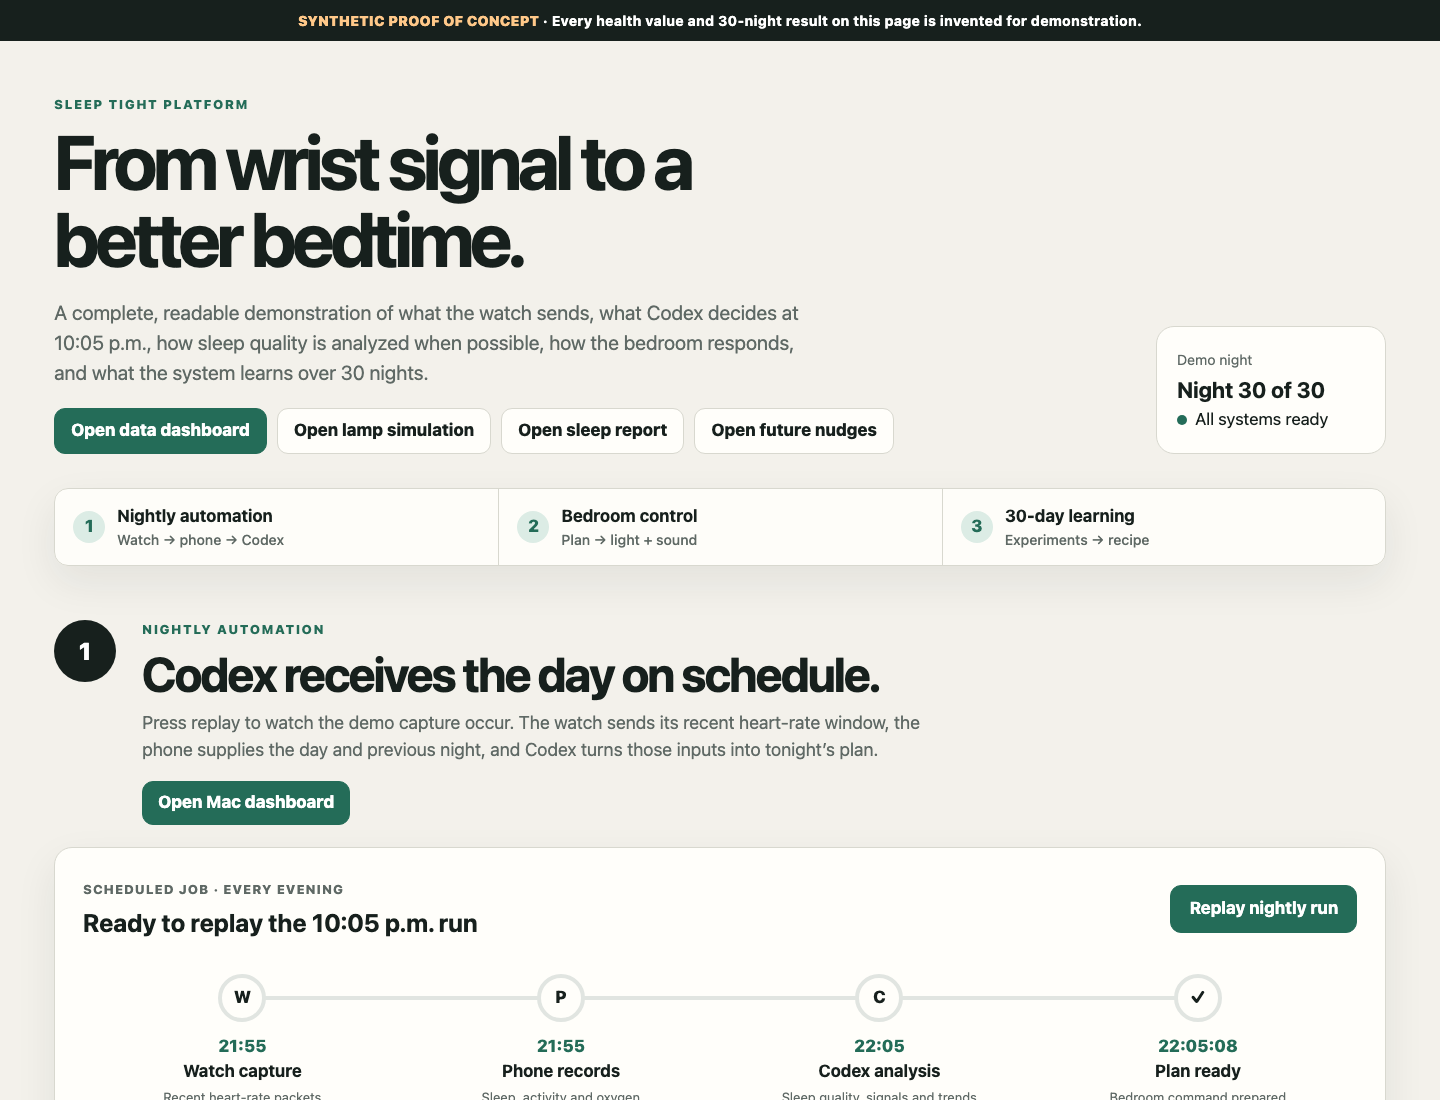
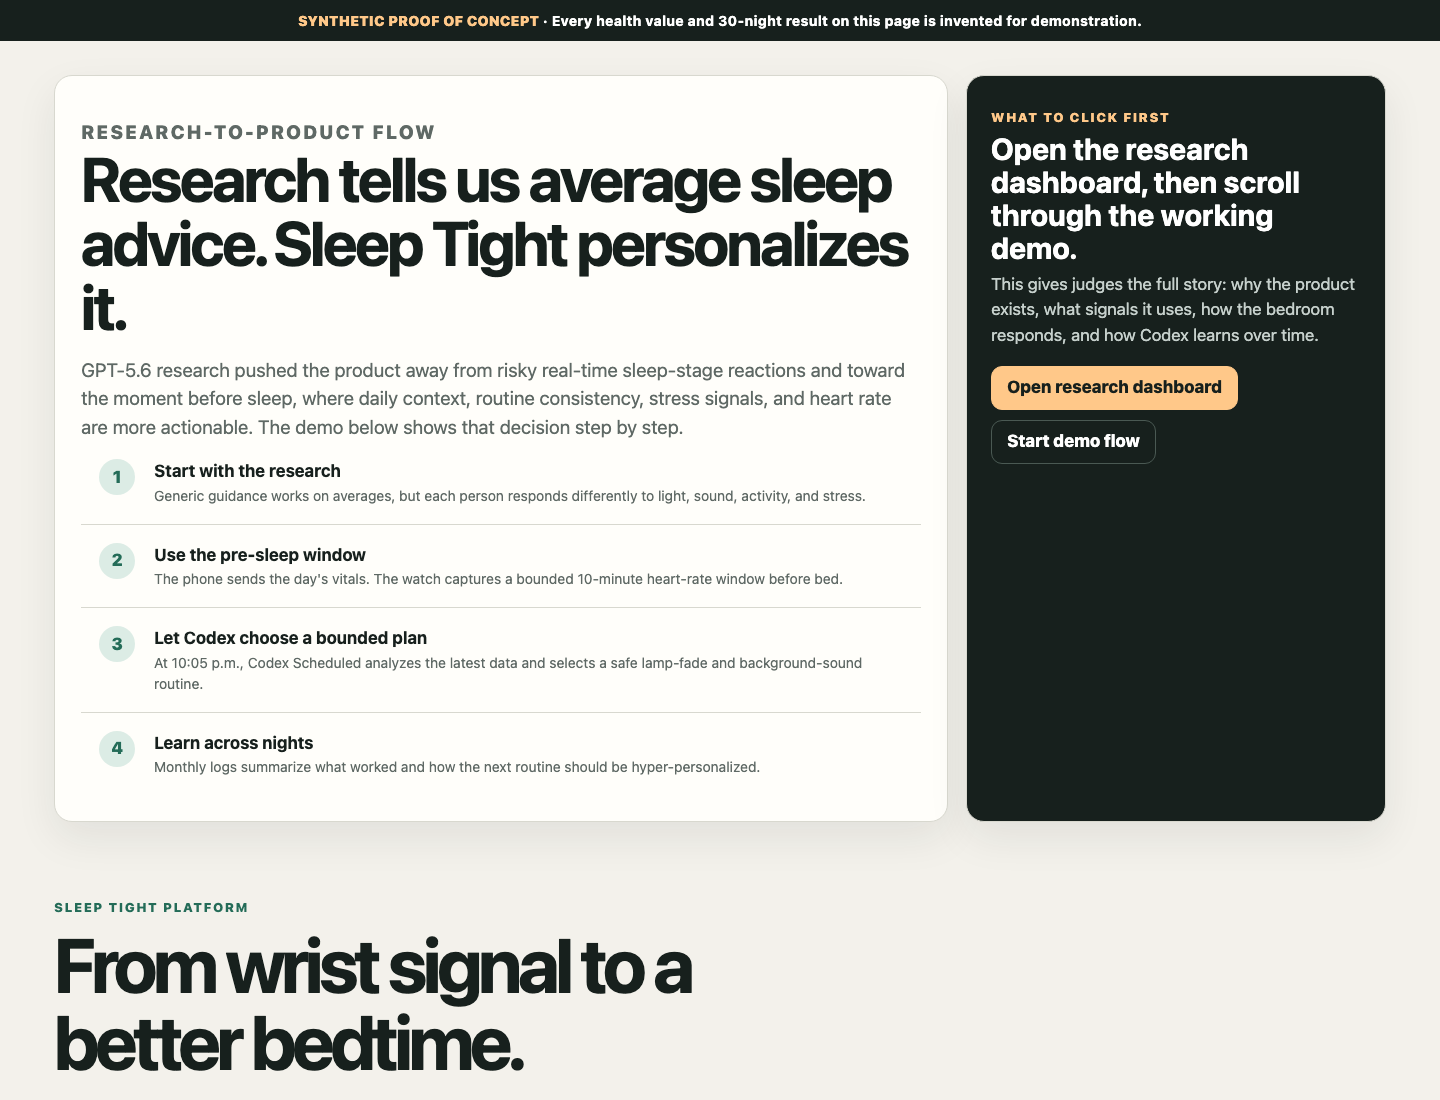
Add research-first website flow

diff --git a/index.html b/index.html
@@ -12,13 +12,38 @@
     @media(max-width:760px){body{font-size:16px}.shell{padding-inline:14px}.demo-banner{margin-inline:-14px;padding-inline:14px}.masthead{padding-top:38px}.lead{font-size:18px}.tour-nav{top:41px;grid-template-columns:repeat(3,1fr)}.tour-nav a{justify-content:center;padding:10px}.tour-nav span:last-child{display:none}.chapter-head{grid-template-columns:48px minmax(0,1fr);gap:13px}.chapter-number{width:46px;height:46px;font-size:19px}.pipeline{padding:20px}.pipeline-top{display:block}.pipeline-top button{width:100%;margin-top:16px}.pipeline-track{grid-template-columns:1fr;margin-top:24px}.pipeline-track::before,.pipeline-progress{left:23px;right:auto;top:24px;bottom:24px;width:4px!important;height:auto}.pipeline-step{display:grid;grid-template-columns:48px minmax(0,1fr);gap:14px;text-align:left;padding:10px 0}.node{margin:0}.pipeline-step time,.pipeline-step strong,.pipeline-step small{grid-column:2;margin:0}.pipeline-step time{grid-row:1}.pipeline-step strong{grid-row:2}.pipeline-step small{grid-row:3}.run-log{grid-template-columns:auto minmax(0,1fr)}.run-log .log-state{grid-column:2}.source-grid{grid-template-columns:1fr}.source{padding:20px}.room-scene{display:block;min-height:700px;padding:26px 20px}.lamp-graphic{position:absolute;left:0;right:0;bottom:30px;height:360px;opacity:.8}.room-controls{padding:18px}.room-controls-top{grid-template-columns:1fr}.room-timeline{margin-left:0}.plan{display:block;padding:22px}.plan-output{margin-top:18px}.chart-card,.month-summary,.experiment-list,.recipe{padding:20px}.chart-head{display:block}.legend{margin-top:12px}.experiment{grid-template-columns:minmax(0,1fr) 64px}.experiment .nights{display:none}.details{padding:0 18px}}
     @media(max-width:420px){.masthead h1{font-size:42px}.date-card{width:100%}.room-clock{font-size:78px}.room-metrics{gap:18px}.run-log{font-size:13px}.source-head{display:block}.source-head .badge{margin-top:8px}.chart-head h3{font-size:22px}}
     .demo-banner{margin-inline:0;width:100%}
-    .demo-actions{display:flex;flex-wrap:wrap;gap:10px;margin:20px 0 0}.demo-actions a{display:inline-flex;min-height:46px;align-items:center;justify-content:center;padding:0 16px;border:1px solid var(--line);border-radius:11px;background:var(--surface);color:var(--ink);font-weight:800;text-decoration:none}.demo-actions a.primary{border-color:var(--green);background:var(--green);color:white}.demo-actions a:hover{border-color:#9fa9a4}.section-actions{display:flex;flex-wrap:wrap;gap:10px;margin:18px 0 0}.section-actions a{display:inline-flex;min-height:44px;align-items:center;justify-content:center;padding:0 15px;border:1px solid var(--line);border-radius:11px;background:var(--surface);color:var(--ink);font-weight:800;text-decoration:none}.section-actions a.primary{border-color:var(--green);background:var(--green);color:white}.section-actions a:hover{border-color:#9fa9a4}
+    .demo-actions{display:flex;flex-wrap:wrap;gap:10px;margin:20px 0 0}.demo-actions a{display:inline-flex;min-height:46px;align-items:center;justify-content:center;padding:0 16px;border:1px solid var(--line);border-radius:11px;background:var(--surface);color:var(--ink);font-weight:800;text-decoration:none}.demo-actions a.primary{border-color:var(--green);background:var(--green);color:white}.demo-actions a:hover{border-color:#9fa9a4}.section-actions{display:flex;flex-wrap:wrap;gap:10px;margin:18px 0 0}.section-actions a{display:inline-flex;min-height:44px;align-items:center;justify-content:center;padding:0 15px;border:1px solid var(--line);border-radius:11px;background:var(--surface);color:var(--ink);font-weight:800;text-decoration:none}.section-actions a.primary{border-color:var(--green);background:var(--green);color:white}.section-actions a:hover{border-color:#9fa9a4}.research-brief{display:grid;grid-template-columns:minmax(0,1fr) 420px;gap:18px;align-items:stretch;margin:34px 0 22px}.research-copy{padding:26px}.research-copy h1{max-width:950px;margin:0;font-size:clamp(34px,4.8vw,62px);line-height:1.04;letter-spacing:-.04em}.research-copy p{max-width:850px;margin:16px 0 0;color:var(--muted);font-size:19px}.research-steps{display:grid;gap:0;overflow:hidden}.research-step{display:grid;grid-template-columns:42px minmax(0,1fr);gap:13px;padding:18px;border-top:1px solid var(--line)}.research-step:first-child{border-top:0}.research-step b{display:grid;width:36px;height:36px;place-items:center;border-radius:50%;background:var(--green-soft);color:var(--green);font-weight:900}.research-step strong{display:block;font-size:17px}.research-step span{display:block;color:var(--muted);font-size:14px}.research-panel{padding:24px;background:#17201d;color:white}.research-panel p{margin:8px 0 0;color:#c6d0cc}.research-panel .section-actions a{background:#ffc889;border-color:#ffc889;color:#17201d}.research-panel .section-actions a+ a{background:transparent;border-color:#4a5953;color:white}
+    @media(max-width:1050px){.research-brief{grid-template-columns:1fr}.research-panel{display:block}}
+    @media(max-width:760px){.research-brief{margin-top:22px}.research-copy,.research-panel{padding:20px}.research-step{grid-template-columns:36px minmax(0,1fr);padding:15px}.research-copy p{font-size:17px}.research-panel .section-actions a{width:100%}}
     @media(prefers-reduced-motion:reduce){html{scroll-behavior:auto}.pipeline-progress{transition:none}}
   </style>
 </head>
 <body>
   <div class="demo-banner"><strong>SYNTHETIC PROOF OF CONCEPT</strong> · Every health value and 30-night result on this page is invented for demonstration.</div>
   <div class="shell">
+    <section class="research-brief" id="research">
+      <div class="surface research-copy">
+        <p class="eyebrow">Research-to-product flow</p>
+        <h1>Research tells us average sleep advice. Sleep Tight personalizes it.</h1>
+        <p>GPT-5.6 research pushed the product away from risky real-time sleep-stage reactions and toward the moment before sleep, where daily context, routine consistency, stress signals, and heart rate are more actionable. The demo below shows that decision step by step.</p>
+        <div class="research-steps" aria-label="Research and product flow">
+          <div class="research-step"><b>1</b><div><strong>Start with the research</strong><span>Generic guidance works on averages, but each person responds differently to light, sound, activity, and stress.</span></div></div>
+          <div class="research-step"><b>2</b><div><strong>Use the pre-sleep window</strong><span>The phone sends the day's vitals. The watch captures a bounded 10-minute heart-rate window before bed.</span></div></div>
+          <div class="research-step"><b>3</b><div><strong>Let Codex choose a bounded plan</strong><span>At 10:05 p.m., Codex Scheduled analyzes the latest data and selects a safe lamp-fade and background-sound routine.</span></div></div>
+          <div class="research-step"><b>4</b><div><strong>Learn across nights</strong><span>Monthly logs summarize what worked and how the next routine should be hyper-personalized.</span></div></div>
+        </div>
+      </div>
+      <aside class="surface research-panel">
+        <p class="eyebrow" style="color:#ffc889">What to click first</p>
+        <h2 style="margin:4px 0 0;font-size:30px;line-height:1.1">Open the research dashboard, then scroll through the working demo.</h2>
+        <p>This gives judges the full story: why the product exists, what signals it uses, how the bedroom responds, and how Codex learns over time.</p>
+        <div class="section-actions">
+          <a href="research/dashboard.html" target="_blank" rel="noopener">Open research dashboard</a>
+          <a href="#capture">Start demo flow</a>
+        </div>
+      </aside>
+    </section>
+
     <header class="masthead">
       <div><p class="eyebrow">Sleep Tight platform</p><h1>From wrist signal to a better bedtime.</h1><p class="lead">A complete, readable demonstration of what the watch sends, what Codex decides at 10:05 p.m., how sleep quality is analyzed when possible, how the bedroom responds, and what the system learns over 30 nights.</p><div class="demo-actions" aria-label="Open demo pages"><a class="primary" href="computer/dashboard.html" target="_blank" rel="noopener">Open data dashboard</a><a href="computer/wind-down-demo.html" target="_blank" rel="noopener">Open lamp simulation</a><a href="computer/sleep-report.html" target="_blank" rel="noopener">Open sleep report</a><a href="research/codex-nudge-simulator.html" target="_blank" rel="noopener">Open future nudges</a></div></div>
       <div class="date-card"><small>Demo night</small><strong>Night 30 of 30</strong><span class="status-line"><i class="dot"></i>All systems ready</span></div>